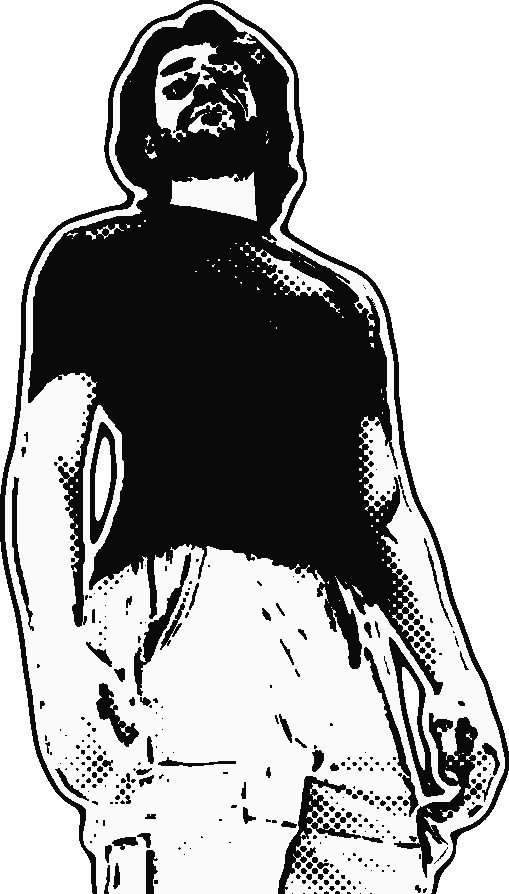
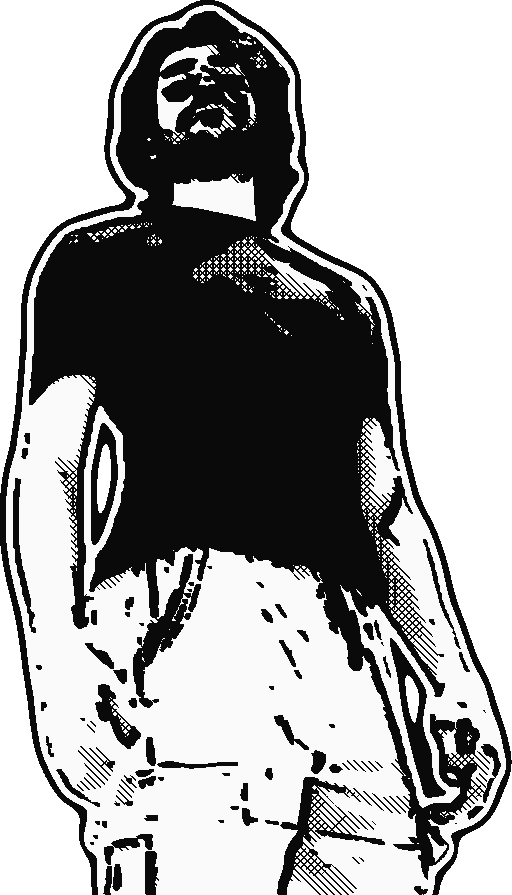
feat: re-rendered line-art figures, larger, with the burst on them
The figures are the owner's redrawn cutouts (thicker contours,
hatching); the figure stands at 120% of its panel's height within the
hero's new headroom so the head clears the nav, and the speed burst
converges on it (mirrored in RTL). The door word below 80rem keeps a
hair more end padding so its lean clears the title at 64rem.

diff --git a/src/styles/landing.css b/src/styles/landing.css
@@ -1,6 +1,7 @@
 /* ---------- hero: a two-panel spread, shout bubble beside an inked HELLO panel ---------- */
 .hero {
   align-items: stretch;
+  padding-block-start: 2rem; /* headroom for the figure's head above its panel, clear of the nav */
   /* room under the panels for the caption overhang and the shadow before the doors */
   padding-block-end: 1rem;
   /* clip the HELLO panel's burst but leave room for the shout bubble's outline, which overhangs its box */
@@ -63,8 +64,8 @@
 }
 @media (min-width: 48rem) {
   .hero__figure img {
-    /* the head breaks the top border by a touch less than main's top padding, so it is never under the nav */
-    block-size: calc(100% + clamp(1rem, 2.5vw, 1.75rem) - 0.25rem);
+    /* the head and shoulders break the top border, within the hero's headroom plus main's padding, so never under the nav */
+    block-size: min(120%, calc(100% + 2rem + clamp(1rem, 2.5vw, 1.75rem) - 0.25rem));
     filter: drop-shadow(6px 6px 0 var(--paper));
   }
   [dir='rtl'] .hero__figure img {
@@ -78,8 +79,13 @@
   inset: -40%;
   opacity: 0.32;
   color: var(--paper);
-  background: repeating-conic-gradient(from 0deg at 50% 50%, currentColor 0deg 1deg, transparent 1deg 6deg);
-  mask-image: radial-gradient(circle at 50% 50%, transparent 8%, #000 60%);
+  /* the burst converges on the figure, which stands on the end side */
+  background: repeating-conic-gradient(from 0deg at 72% 58%, currentColor 0deg 1deg, transparent 1deg 6deg);
+  mask-image: radial-gradient(circle at 72% 58%, transparent 6%, #000 55%);
+}
+[dir='rtl'] .hero__speed {
+  background: repeating-conic-gradient(from 0deg at 28% 58%, currentColor 0deg 1deg, transparent 1deg 6deg);
+  mask-image: radial-gradient(circle at 28% 58%, transparent 6%, #000 55%);
 }
 .hero__end > .sfx {
   inset: 0;
@@ -360,6 +366,7 @@
   }
   .split__door--personal .sfx {
     inset-inline-end: var(--bleed);
+    padding-inline-end: 0.1em; /* keeps the word's lean clear of the title's end at 64rem */
   }
 }
 
